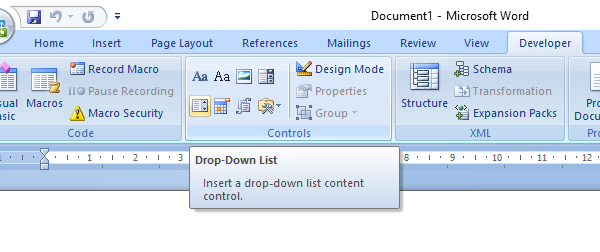
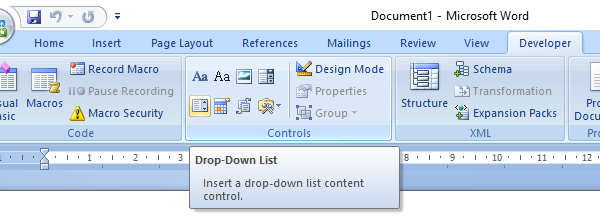
resize image

diff --git a/docs/_posts/2020-06-03-is-js-form-solution.md b/docs/_posts/2020-06-03-is-js-form-solution.md
@@ -12,10 +12,17 @@ tags: [www]
 Design a form with JS and print it as PDF (or DOCX?)
 
 ## DOCX developer menu
+![](https://github.com/dudung/abm-x/raw/master/src/experiment/js-form-print-docx/drop-down-list.png)
+
+Fig 1 Drop-down list under Developer tab in Microsoft Word.
+
+[[1](#ref1)]
+
+[[2](#ref2)]
 
 ## Edit
 2020-06-03 Create this post. <br />
 
 ## References
-1. <a name="ref1"></a> url <https://cygwin.com/install.html>
-2. <a name="ref2"></a> url <https://github.com/dudung/abm-x/tree/master/src/experiment/cygwin-reinstall>
+1. <a name="ref1"></a> David Weedmark, "How to Create a Drop Down Box in WordSmall Business", Chron, 12 Apr 2019, url https://smallbusiness.chron.com/create-drop-down-box-word-54411.html [20200603].
+2. <a name="ref2"></a> url <https://github.com/dudung/abm-x/tree/master/src/experiment/js-form-print-docx>
